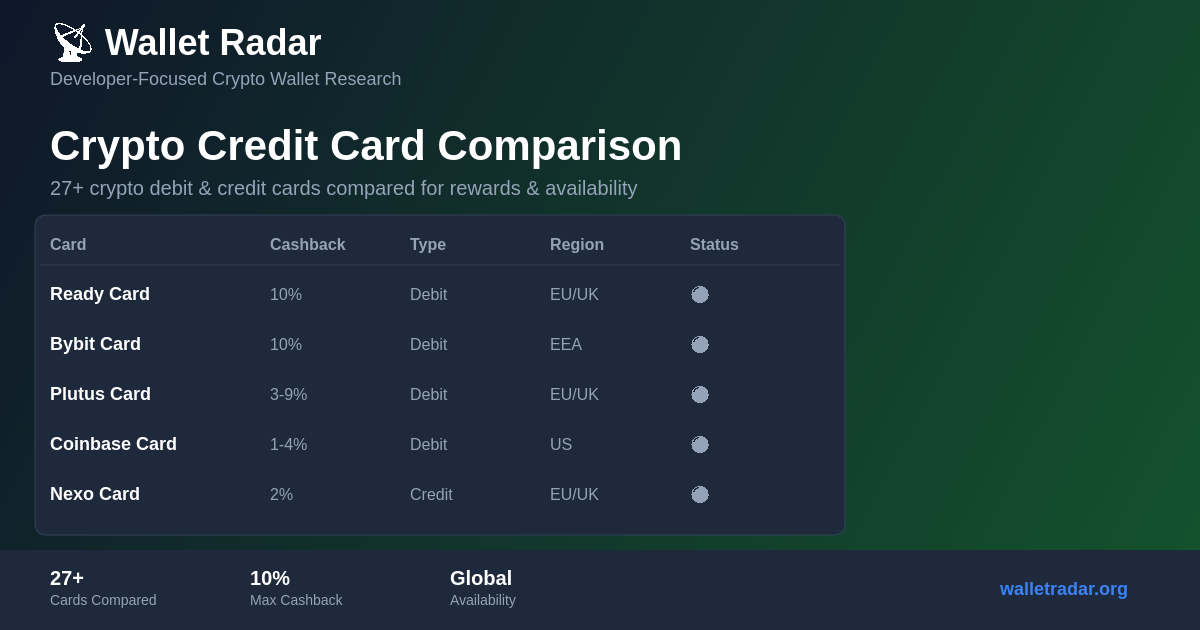
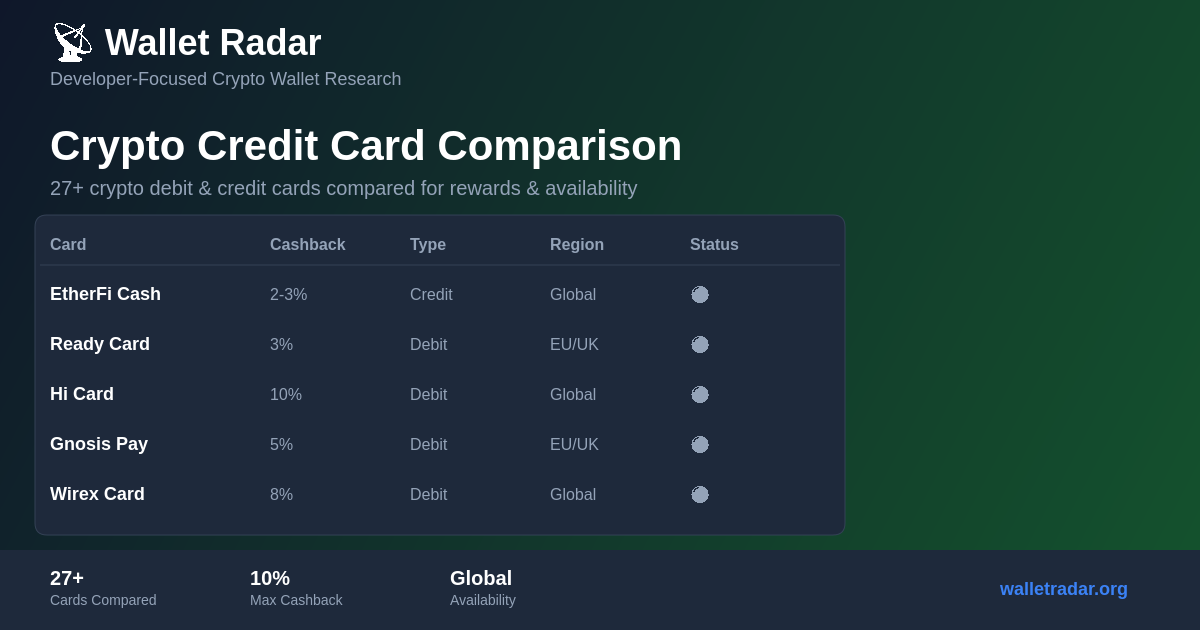
Refactor crypto card data and update OG image versions (#138)

diff --git a/wallets/frontend/src/components/WalletTable.tsx b/wallets/frontend/src/components/WalletTable.tsx
@@ -524,8 +524,20 @@ function CryptoCardItem({
           <div className="flex items-center gap-3">
             <ScoreBadge score={card.score} />
             <div>
-              <div className="font-semibold">{card.name}</div>
-              <div className="text-sm text-muted-foreground">{card.provider}</div>
+              {card.providerUrl ? (
+                <a
+                  href={card.providerUrl}
+                  target="_blank"
+                  rel="noopener noreferrer"
+                  className="font-semibold text-foreground hover:text-primary hover:underline inline-flex items-center gap-1"
+                >
+                  {card.name}
+                  <ExternalLink className="h-3 w-3 text-muted-foreground" />
+                </a>
+              ) : (
+                <div className="font-semibold">{card.name}</div>
+              )}
+              <div className="text-sm text-muted-foreground">{card.bestFor}</div>
             </div>
           </div>
         </td>
@@ -538,21 +550,6 @@ function CryptoCardItem({
         </td>
         <td className="py-3 px-4 text-sm">{card.rewards}</td>
         <td className="py-3 px-4 text-sm">{card.annualFee}</td>
-        <td className="py-3 px-4">
-          {card.providerUrl ? (
-            <a
-              href={card.providerUrl}
-              target="_blank"
-              rel="noopener noreferrer"
-              className="text-primary hover:underline flex items-center gap-1 text-sm"
-            >
-              {card.provider}
-              <ExternalLink className="h-3 w-3" />
-            </a>
-          ) : (
-            <span className="text-sm text-muted-foreground">{card.provider}</span>
-          )}
-        </td>
       </tr>
     );
   }
@@ -569,7 +566,19 @@ function CryptoCardItem({
         <div className="flex items-center gap-3">
           <ScoreBadge score={card.score} />
           <div>
-            <h3 className="font-semibold">{card.name}</h3>
+            {card.providerUrl ? (
+              <a
+                href={card.providerUrl}
+                target="_blank"
+                rel="noopener noreferrer"
+                className="font-semibold text-foreground hover:text-primary hover:underline inline-flex items-center gap-1"
+              >
+                {card.name}
+                <ExternalLink className="h-3 w-3 text-muted-foreground" />
+              </a>
+            ) : (
+              <h3 className="font-semibold">{card.name}</h3>
+            )}
             <Badge variant="info">{card.cardType}</Badge>
           </div>
         </div>
@@ -835,7 +844,7 @@ export function WalletTable<T extends WalletData>({
                   <th className="py-3 px-4 text-left text-sm font-medium">Links</th>
                 </>
               )}
-              {type !== 'ramps' && <th className="py-3 px-4 text-left text-sm font-medium">Links</th>}
+              {(type === 'software' || type === 'hardware') && <th className="py-3 px-4 text-left text-sm font-medium">Links</th>}
             </tr>
           </thead>
           <tbody>

diff --git a/wallets/frontend/scripts/smoke-test-wallet-data.js b/wallets/frontend/scripts/smoke-test-wallet-data.js
@@ -184,35 +184,37 @@ function run() {
   const cardsRows = parseMarkdownTable(cardsContent);
   if (cardsRows.length < 5) fail('Cards table has too few rows (expected header + data).');
 
+  // Provider column merged into Card column (Jan 2026) - card names now link directly to provider
   const cardsExpectedHeader = [
     'Card',
     'Score',
     'Type',
-    'Custody',    // NEW: Custody column added Jan 2026
+    'Custody',    // Custody column added Jan 2026
     'Biz',
     'Region',
     'Cash Back',
     'Annual Fee',
     'FX Fee',
     'Rewards',
-    'Provider',
     'Status',
     'Best For',
   ];
   assertHeaders('Crypto cards table', cardsRows[0], cardsExpectedHeader);
 
   // Spot-check EtherFi Cash (top-ranked card after Jan 2026 recalculation)
+  // Card column now contains both name and URL: [**Card Name**](url)
   const etherfiRow = findRowByFirstCellSubstring(cardsRows, 'etherfi cash');
   if (!etherfiRow) {
     fail('Crypto cards table: could not find EtherFi Cash row.');
   } else {
+    const card = etherfiRow[0] || '';
     const score = etherfiRow[1] || '';
     const custody = etherfiRow[3] || '';
-    const provider = etherfiRow[10] || '';  // Index shifted due to Custody column
-    const status = etherfiRow[11] || '';     // Index shifted due to Custody column
+    const status = etherfiRow[10] || '';     // Status column at index 10 after removing Provider
     if (!/85/.test(score)) fail(`EtherFi Cash score drifted (expected 85-ish), got: "${score}"`);
     if (!/Self/.test(custody)) fail(`EtherFi Cash custody drifted (expected Self), got: "${custody}"`);
-    if (!/etherfi/i.test(provider)) fail(`EtherFi Cash provider drifted (expected etherfi), got: "${provider}"`);
+    // Card column should now have URL embedded
+    if (!/ether\.fi/i.test(card)) fail(`EtherFi Cash card column should contain ether.fi URL, got: "${card}"`);
     if (!/✅/.test(status)) fail(`EtherFi Cash status drifted (expected ✅), got: "${status}"`);
     ok('Crypto cards table: EtherFi Cash spot-check passed');
   }
@@ -222,11 +224,14 @@ function run() {
   if (!readyRow) {
     fail('Crypto cards table: could not find Ready Card row.');
   } else {
+    const card = readyRow[0] || '';
     const score = readyRow[1] || '';
     const custody = readyRow[3] || '';
     const cashback = readyRow[6] || '';  // Cash Back column
     if (!/83/.test(score)) fail(`Ready Card score drifted (expected 83-ish), got: "${score}"`);
     if (!/Self/.test(custody)) fail(`Ready Card custody drifted (expected Self), got: "${custody}"`);
+    // Card column should now have URL embedded
+    if (!/ready\.co/i.test(card)) fail(`Ready Card card column should contain ready.co URL, got: "${card}"`);
     // Cash back should be 3% (not "Up to 10%" - major correction)
     if (!/3%/.test(cashback)) fail(`Ready Card cash back should be 3% (verified), got: "${cashback}"`);
     ok('Crypto cards table: Ready Card spot-check passed');

diff --git a/wallets/frontend/src/lib/wallet-data.ts b/wallets/frontend/src/lib/wallet-data.ts
@@ -416,22 +416,32 @@ export function parseCryptoCards(): CryptoCard[] {
   // Skip header row
   const dataRows = rows.slice(1);
 
-  // Table columns (CRYPTO_CARDS.md) after adding Custody column (Jan 2026):
+  // Table columns (CRYPTO_CARDS.md) after merging Provider into Card column (Jan 2026):
   // Card(0) Score(1) Type(2) Custody(3) Biz(4) Region(5) CashBack(6) 
-  // AnnualFee(7) FxFee(8) Rewards(9) Provider(10) Status(11) BestFor(12)
+  // AnnualFee(7) FxFee(8) Rewards(9) Status(10) BestFor(11)
+  // Card column now has format: [**Card Name**](url)
   return dataRows.map(cells => {
-    // Extract card name from bold text
+    // Extract card name and URL from markdown link format: [**Card Name**](url)
+    const linkMatch = cells[0]?.match(/\[(?:\*\*)?([^*\]]+)(?:\*\*)?\]\(([^)]+)\)/);
     const nameMatch = cells[0]?.match(/\*\*([^*]+)\*\*/);
-    const name = nameMatch ? nameMatch[1] : cells[0] || 'Unknown';
+    
+    let name = 'Unknown';
+    let cardUrl: string | null = null;
+    
+    if (linkMatch) {
+      name = linkMatch[1].trim();
+      cardUrl = linkMatch[2].trim();
+    } else if (nameMatch) {
+      name = nameMatch[1].trim();
+    } else {
+      name = cells[0]?.replace(/[*[\]()]/g, '').trim() || 'Unknown';
+    }
 
     // Parse score (may have emoji)
     const scoreMatch = cells[1]?.match(/(\d+)/);
     const score = scoreMatch ? parseInt(scoreMatch[1], 10) : 0;
 
     const region = parseRegion(cells[5] || '');
-
-    // Extract provider URL
-    const providerMatch = cells[10]?.match(/\[([^\]]+)\]\(([^)]+)\)/);
 
     return {
       id: generateSlug(name),
@@ -447,10 +457,10 @@ export function parseCryptoCards(): CryptoCard[] {
       annualFee: cells[7]?.trim() || '$0',
       fxFee: cells[8]?.trim() || '0%',
       rewards: cells[9]?.trim() || 'None',
-      provider: providerMatch ? providerMatch[1] : cells[10]?.replace(/[[\]()]/g, '') || 'Unknown',
-      providerUrl: providerMatch ? providerMatch[2] : null,
-      status: parseCardStatus(cells[11] || ''),
-      bestFor: cells[12]?.trim() || '',
+      provider: name, // Provider is now the card name itself
+      providerUrl: cardUrl, // URL now comes from Card column
+      status: parseCardStatus(cells[10] || ''),
+      bestFor: cells[11]?.trim() || '',
       recommendation: parseHardwareRecommendation(cells[1] || ''), // Uses score emoji
       type: 'card' as const,
     };

diff --git a/wallets/frontend/scripts/generate-og-images.js b/wallets/frontend/scripts/generate-og-images.js
@@ -52,12 +52,12 @@ const WALLET_DATA = {
   ],
   cards: [
     // Data from CRYPTO_CARDS.md - Top 5 by score
-    // Last verified: December 2025
-    { name: 'Ready Card', cashback: '10%', type: 'Debit', region: 'EU/UK', status: '🟢' },
-    { name: 'Bybit Card', cashback: '10%', type: 'Debit', region: 'EEA', status: '🟢' },
-    { name: 'Plutus Card', cashback: '3-9%', type: 'Debit', region: 'EU/UK', status: '🟢' },
-    { name: 'Coinbase Card', cashback: '1-4%', type: 'Debit', region: 'US', status: '🟢' },
-    { name: 'Nexo Card', cashback: '2%', type: 'Credit', region: 'EU/UK', status: '🟢' },
+    // Last verified: January 2026
+    { name: 'EtherFi Cash', cashback: '2-3%', type: 'Credit', region: 'Global', status: '🟢' },
+    { name: 'Ready Card', cashback: '3%', type: 'Debit', region: 'EU/UK', status: '🟢' },
+    { name: 'Hi Card', cashback: '10%', type: 'Debit', region: 'Global', status: '🟢' },
+    { name: 'Gnosis Pay', cashback: '5%', type: 'Debit', region: 'EU/UK', status: '🟢' },
+    { name: 'Wirex Card', cashback: '8%', type: 'Debit', region: 'Global', status: '🟢' },
   ],
   ramps: [
     // Data from RAMPS.md - Top 5 by score
@@ -616,9 +616,9 @@ function generateCryptoCardsDetailsImage() {
 
   // Top picks
   const picks = [
-    { rank: '🥇', name: 'Ready Card', cashback: '10%', for: 'EU/UK - Debit card' },
-    { rank: '🥈', name: 'Bybit Card', cashback: '10%', for: 'EEA - Debit card' },
-    { rank: '🥉', name: 'Plutus Card', cashback: '3-9%', for: 'EU/UK - Tiered rewards' },
+    { rank: '🥇', name: 'EtherFi Cash', cashback: '2-3%', for: 'Global - Non-custodial DeFi credit' },
+    { rank: '🥈', name: 'Ready Card', cashback: '3%', for: 'EU/UK - Self-custody debit' },
+    { rank: '🥉', name: 'Hi Card', cashback: '10%', for: 'Global - High cashback' },
   ];
 
   let y = startY + 50;
@@ -651,9 +651,9 @@ function generateCryptoCardsDetailsImage() {
   ctx.fillText('🌍 Regional Options', 50, y);
 
   const regions = [
-    '• US: Coinbase Card (1-4%), Fold Card (1.5%)',
-    '• EU/UK: Nexo Card (2%), Crypto.com (1-8%)',
-    '• Global: Multiple options with varying limits',
+    '• US: Coinbase Card (1-4%), Fold Card (3-5%)',
+    '• EU/UK: Gnosis Pay (5%), Ready Card (3%)',
+    '• Global: EtherFi Cash (2-3%), Hi Card (10%)',
   ];
 
   y += 40;

diff --git a/wallets/frontend/src/app/explore/page.tsx b/wallets/frontend/src/app/explore/page.tsx
@@ -11,7 +11,7 @@ import { ExploreContent } from './ExploreContent';
 import { SocialShare } from '@/components/SocialShare';
 
 const baseUrl = process.env.NEXT_PUBLIC_BASE_URL || 'https://walletradar.org';
-const ogImageVersion = 'v3';
+const ogImageVersion = 'v4';
 const pageTitle = 'Explore & Compare Wallets | Wallet Radar';
 const pageDescription = 'Filter, sort, and compare crypto wallets side-by-side. Advanced filtering for software wallets, hardware wallets, and crypto cards with real-time chain TVL data.';
 const pageUrl = `${baseUrl}/explore/`;

diff --git a/wallets/frontend/src/app/layout.tsx b/wallets/frontend/src/app/layout.tsx
@@ -12,7 +12,7 @@ const siteName = 'Wallet Radar';
 const defaultTitle = 'Wallet Radar - Developer-Focused Crypto Wallet Research';
 const defaultDescription = 'Developer-focused crypto wallet comparisons. Find stable MetaMask alternatives with scoring, audit links, GitHub activity, and UX notes for software and hardware wallets.';
 // Cache-busting version for OG images - increment when images are updated
-const ogImageVersion = 'v3';
+const ogImageVersion = 'v4';
 
 export const metadata: Metadata = {
   metadataBase: new URL(baseUrl),

diff --git a/wallets/frontend/src/app/docs/[slug]/page.tsx b/wallets/frontend/src/app/docs/[slug]/page.tsx
@@ -44,7 +44,7 @@ export async function generateMetadata({ params }: PageProps): Promise<Metadata>
   // Get page-specific OG image with cache-busting version parameter
   // Increment ogImageVersion when images are updated to bust Twitter/social media caches
   const ogImagePath = getOgImagePath(params.slug);
-  const ogImageVersion = 'v3';
+  const ogImageVersion = 'v4';
   const ogImageUrl = `${baseUrl}${ogImagePath}?${ogImageVersion}`;
 
   return {

diff --git a/wallets/frontend/src/app/docs/page.tsx b/wallets/frontend/src/app/docs/page.tsx
@@ -5,7 +5,7 @@ import { DocsContent } from './DocsContent';
 
 const baseUrl = process.env.NEXT_PUBLIC_BASE_URL || 'https://walletradar.org';
 // Cache-busting version for OG images - increment when images are updated
-const ogImageVersion = 'v3';
+const ogImageVersion = 'v4';
 
 export const metadata: Metadata = {
   title: 'Documentation',

diff --git a/wallets/CRYPTO_CARDS.md b/wallets/CRYPTO_CARDS.md
@@ -2,35 +2,35 @@
 
 ## Complete Card Comparison (All 27 Crypto Cards)
 
-| Card | Score | Type | Custody | Biz | Region | Cash Back | Annual Fee | FX Fee | Rewards | Provider | Status | Best For |
-|------|-------|------|---------|-----|--------|-----------|------------|--------|---------|----------|--------|----------|
-| **EtherFi Cash** | 85 🟢 | Credit | 🔐 Self | ✅ | 🌍 Global | 2-3% | $0 | 1% | ETH, BTC, Stables | [EtherFi](https://ether.fi/cash) | ✅ | Non-custodial DeFi |
-| **Ready Card** | 83 🟢 | Debit | 🔐 Self | ❌ | 🇪🇺 EU/UK | 3% | $0 | 0% | Crypto | [Ready](https://www.ready.co/card) | ✅ | Self-custody EU/UK |
-| **Hi Card** | 79 🟢 | Debit | 📋 CeFi | ❌ | 🌍 Global | Up to 10% | $0 | 0% | HI | [hi.com](https://hi.com) | ⚠ | High cashback |
-| **Gnosis Pay** | 78 🟢 | Debit | 🔐 Self | ❌ | 🇪🇺 EU/UK | Up to 5% | €0 | 0% | GNO/SAFE | [Gnosis](https://gnosispay.com) | ✅ | DeFi-native |
-| **Wirex Card** | 78 🟢 | Debit | 📋 CeFi | ⚠ | 🌍 Global | Up to 8% | $0 | 0% | WXT | [Wirex](https://wirexapp.com/card) | ⚠ | Multi-crypto |
-| **Fold Card** | 77 🟢 | Debit | 📋 CeFi | ❌ | 🇺🇸 US | 3-5% | $0 | 0% | BTC | [Fold](https://foldapp.com) | ✅ | Bitcoin rewards |
-| **Gemini Card** | 76 🟢 | Credit | 🏦 Exch | ❌ | 🇺🇸 US | Up to 4% | $0 | 0% | BTC, ETH | [Gemini](https://www.gemini.com/credit-card) | ✅ | Credit building |
-| **KuCard** | 76 🟢 | Debit | 🏦 Exch | ❌ | 🌍 Global* | Up to 4% | $0 | 0% | Multi | [KuCoin](https://www.kucoin.com/kucard) | ✅ | KuCoin users |
-| **Revolut Crypto** | 76 🟢 | Debit | 📋 CeFi | ✅ | 🌍 Global | 1-3% | $0-$17/mo | 0-2% | Multi | [Revolut](https://www.revolut.com/crypto/crypto-card/) | ✅ | Fiat+Crypto |
-| **Coinbase Card** | 75 🟢 | Debit | 🏦 Exch | ❌ | 🇺🇸 US | 1-4% | $0 | 0% | BTC, ETH | [Coinbase](https://www.coinbase.com/card) | ✅ | Coinbase users |
-| **Bybit Card** | 74 🟡 | Debit | 🏦 Exch | ✅ | 🇪🇺 EEA/CH | Up to 10% | $0 | 0% | Multi | [Bybit](https://www.bybit.com/en/cards/) | ⚠ | High cashback |
-| **Plutus Card** | 73 🟡 | Debit | 📋 CeFi | ❌ | 🇪🇺 EU/UK | 3-9% | £0 | 0% | PLU | [Plutus](https://plutus.it) | ✅ | EU/UK perks |
-| **Uphold Card** | 73 🟡 | Debit | 📋 CeFi | ⚠ | 🇺🇸🇪🇺 US/EU | 1-4% | $0 | 0% | XRP, BTC | [Uphold](https://uphold.com/card) | ⚠ | Multi-crypto |
-| **CryptoSpend** | 71 🟡 | Debit | 🔐 Self | ❌ | 🇦🇺 AU | 1% | $0 | 0% | BTC, ETH | [CryptoSpend](https://cryptospend.com.au) | ✅ | Australia |
-| **Shakepay Card** | 70 🟡 | Prepaid | 📋 CeFi | ❌ | 🇨🇦 CA | 1.5% | $0 | 0% | BTC | [Shakepay](https://shakepay.com/card) | ✅ | Canada |
-| **1inch Card** | 70 🟡 | Debit | 🔐 Self | ❌ | 🇪🇺 EU/UK | Up to 2% | $0 | 0% | 1INCH | [Baanx](https://1inch.com/card) | ✅ | DeFi users |
-| **Mode Card** | 69 🟡 | Debit | 📋 CeFi | ❌ | 🇬🇧 UK | Up to 10% | $0 | 0% | BTC | [Mode](https://modeapp.com) | ⚠ | Bitcoin rewards |
-| **Binance Card** | 67 🟡 | Debit | 🏦 Exch | ⚠ | 🌍 Global* | Up to 3% | $0 | 0% | BNB | [Binance](https://www.binance.com/en/cards) | ✅ | Binance users |
-| **Redotpay** | 67 🟡 | Debit | 📋 CeFi | ✅ | 🌍 Global | Up to 3% | $0-$100 | 1-2% | USDT, USDC | [Redotpay](https://redotpay.com) | ✅ | Multi-region |
-| **CoinJar Card** | 65 🟡 | Debit | 🏦 Exch | ❌ | 🇦🇺 AU | 1% | $0 | 0% | BTC | [CoinJar](https://www.coinjar.com/card) | ⚠ | Australia |
-| **Nexo Card** | 63 🟡 | Credit | 📋 CeFi | ✅ | 🇪🇺 EU/UK | Up to 2% | $0 | FX fees | NEXO | [Nexo](https://nexo.com/card) | ✅ | Crypto credit |
-| **Kraken Card** | 60 🟡 | Debit | 🏦 Exch | ⚠ | 🇺🇸🇪🇺 US/EU | TBD | $0 | TBD | Multi | [Kraken](https://www.kraken.com) | 🔄 | Kraken users |
-| **Swissborg Card** | 60 🟡 | Debit | 📋 CeFi | ❌ | 🇪🇺 EU | 1-2% | $0 | 0% | CHSB | [Swissborg](https://swissborg.com/card) | ⚠ | EU users |
-| **BitPay Card** | 56 🟡 | Prepaid | 📋 CeFi | ⚠ | 🇺🇸 US | 1%* | $0 | 0% | None | [BitPay](https://bitpay.com/card) | ✅ | BTC spending |
-| **OKX Card** | 50 🟡 | Debit | 🏦 Exch | ⚠ | 🇪🇺 EU | TBD | $0 | TBD | Stables | [OKX](https://www.okx.com) | 🔄 | Stablecoins |
-| **Reap** | 47 🔴 | Business | 📋 CeFi | ✅ | 🌍 Global | 0% | $0 | 2% | Stables | [Reap](https://reap.global) | ✅ | Business |
-| **Crypto.com Visa** | 41 🔴 | Debit | 🏦 Exch | ✅ | 🌍 Global | 0-8% | $0 | 0% | CRO | [Crypto.com](https://crypto.com/cards) | ✅ | CRO stakers ⚠ |
+| Card | Score | Type | Custody | Biz | Region | Cash Back | Annual Fee | FX Fee | Rewards | Status | Best For |
+|------|-------|------|---------|-----|--------|-----------|------------|--------|---------|--------|----------|
+| [**EtherFi Cash**](https://ether.fi/cash) | 85 🟢 | Credit | 🔐 Self | ✅ | 🌍 Global | 2-3% | $0 | 1% | ETH, BTC, Stables | ✅ | Non-custodial DeFi |
+| [**Ready Card**](https://www.ready.co/card) | 83 🟢 | Debit | 🔐 Self | ❌ | 🇪🇺 EU/UK | 3% | $0 | 0% | Crypto | ✅ | Self-custody EU/UK |
+| [**Hi Card**](https://hi.com) | 79 🟢 | Debit | 📋 CeFi | ❌ | 🌍 Global | Up to 10% | $0 | 0% | HI | ⚠ | High cashback |
+| [**Gnosis Pay**](https://gnosispay.com) | 78 🟢 | Debit | 🔐 Self | ❌ | 🇪🇺 EU/UK | Up to 5% | €0 | 0% | GNO/SAFE | ✅ | DeFi-native |
+| [**Wirex Card**](https://wirexapp.com/card) | 78 🟢 | Debit | 📋 CeFi | ⚠ | 🌍 Global | Up to 8% | $0 | 0% | WXT | ⚠ | Multi-crypto |
+| [**Fold Card**](https://foldapp.com) | 77 🟢 | Debit | 📋 CeFi | ❌ | 🇺🇸 US | 3-5% | $0 | 0% | BTC | ✅ | Bitcoin rewards |
+| [**Gemini Card**](https://www.gemini.com/credit-card) | 76 🟢 | Credit | 🏦 Exch | ❌ | 🇺🇸 US | Up to 4% | $0 | 0% | BTC, ETH | ✅ | Credit building |
+| [**KuCard**](https://www.kucoin.com/kucard) | 76 🟢 | Debit | 🏦 Exch | ❌ | 🌍 Global* | Up to 4% | $0 | 0% | Multi | ✅ | KuCoin users |
+| [**Revolut Crypto**](https://www.revolut.com/crypto/crypto-card/) | 76 🟢 | Debit | 📋 CeFi | ✅ | 🌍 Global | 1-3% | $0-$17/mo | 0-2% | Multi | ✅ | Fiat+Crypto |
+| [**Coinbase Card**](https://www.coinbase.com/card) | 75 🟢 | Debit | 🏦 Exch | ❌ | 🇺🇸 US | 1-4% | $0 | 0% | BTC, ETH | ✅ | Coinbase users |
+| [**Bybit Card**](https://www.bybit.com/en/cards/) | 74 🟡 | Debit | 🏦 Exch | ✅ | 🇪🇺 EEA/CH | Up to 10% | $0 | 0% | Multi | ⚠ | High cashback |
+| [**Plutus Card**](https://plutus.it) | 73 🟡 | Debit | 📋 CeFi | ❌ | 🇪🇺 EU/UK | 3-9% | £0 | 0% | PLU | ✅ | EU/UK perks |
+| [**Uphold Card**](https://uphold.com/card) | 73 🟡 | Debit | 📋 CeFi | ⚠ | 🇺🇸🇪🇺 US/EU | 1-4% | $0 | 0% | XRP, BTC | ⚠ | Multi-crypto |
+| [**CryptoSpend**](https://cryptospend.com.au) | 71 🟡 | Debit | 🔐 Self | ❌ | 🇦🇺 AU | 1% | $0 | 0% | BTC, ETH | ✅ | Australia |
+| [**Shakepay Card**](https://shakepay.com/card) | 70 🟡 | Prepaid | 📋 CeFi | ❌ | 🇨🇦 CA | 1.5% | $0 | 0% | BTC | ✅ | Canada |
+| [**1inch Card**](https://1inch.com/card) | 70 🟡 | Debit | 🔐 Self | ❌ | 🇪🇺 EU/UK | Up to 2% | $0 | 0% | 1INCH | ✅ | DeFi users |
+| [**Mode Card**](https://modeapp.com) | 69 🟡 | Debit | 📋 CeFi | ❌ | 🇬🇧 UK | Up to 10% | $0 | 0% | BTC | ⚠ | Bitcoin rewards |
+| [**Binance Card**](https://www.binance.com/en/cards) | 67 🟡 | Debit | 🏦 Exch | ⚠ | 🌍 Global* | Up to 3% | $0 | 0% | BNB | ✅ | Binance users |
+| [**Redotpay**](https://redotpay.com) | 67 🟡 | Debit | 📋 CeFi | ✅ | 🌍 Global | Up to 3% | $0-$100 | 1-2% | USDT, USDC | ✅ | Multi-region |
+| [**CoinJar Card**](https://www.coinjar.com/card) | 65 🟡 | Debit | 🏦 Exch | ❌ | 🇦🇺 AU | 1% | $0 | 0% | BTC | ⚠ | Australia |
+| [**Nexo Card**](https://nexo.com/card) | 63 🟡 | Credit | 📋 CeFi | ✅ | 🇪🇺 EU/UK | Up to 2% | $0 | FX fees | NEXO | ✅ | Crypto credit |
+| [**Kraken Card**](https://www.kraken.com) | 60 🟡 | Debit | 🏦 Exch | ⚠ | 🇺🇸🇪🇺 US/EU | TBD | $0 | TBD | Multi | 🔄 | Kraken users |
+| [**Swissborg Card**](https://swissborg.com/card) | 60 🟡 | Debit | 📋 CeFi | ❌ | 🇪🇺 EU | 1-2% | $0 | 0% | CHSB | ⚠ | EU users |
+| [**BitPay Card**](https://bitpay.com/card) | 56 🟡 | Prepaid | 📋 CeFi | ⚠ | 🇺🇸 US | 1%* | $0 | 0% | None | ✅ | BTC spending |
+| [**OKX Card**](https://www.okx.com) | 50 🟡 | Debit | 🏦 Exch | ⚠ | 🇪🇺 EU | TBD | $0 | TBD | Stables | 🔄 | Stablecoins |
+| [**Reap**](https://reap.global) | 47 🔴 | Business | 📋 CeFi | ✅ | 🌍 Global | 0% | $0 | 2% | Stables | ✅ | Business |
+| [**Crypto.com Visa**](https://crypto.com/cards) | 41 🔴 | Debit | 🏦 Exch | ✅ | 🌍 Global | 0-8% | $0 | 0% | CRO | ✅ | CRO stakers ⚠ |
 
 ### Legend
 
@@ -43,6 +43,7 @@
 **Card Details:**
 | Column | Values |
 |--------|--------|
+| **Card** | Card name with link to provider website |
 | **Type** | Credit, Debit, Prepaid, Business |
 | **Custody** | 🔐 Self = Self-custody/Non-custodial (you control keys) |
 | | 🏦 Exch = Exchange custody (funds on exchange) |

diff --git a/wallets/frontend/README.md b/wallets/frontend/README.md
@@ -82,7 +82,8 @@ If you change any of these table column orders, you must update the parser + run
 - `HARDWARE_WALLETS.md` (hardware wallets)
   - Columns: Wallet, Score, GitHub, Air-Gap, Open Source, Secure Elem, Display, Price, Conn, Activity, Rec
 - `CRYPTO_CARDS.md` (cards)
-  - Columns: Card, Score, Type, Biz, Region, Cash Back, Annual Fee, FX Fee, Rewards, Provider, Status, Best For
+  - Columns: Card, Score, Type, Custody, Biz, Region, Cash Back, Annual Fee, FX Fee, Rewards, Status, Best For
+  - Note: Card column contains clickable link to provider website (e.g., `[**Card Name**](url)`)
 
 `npm test` runs a lightweight smoke test in `scripts/smoke-test-wallet-data.js` to catch table header/structure drift.
 
